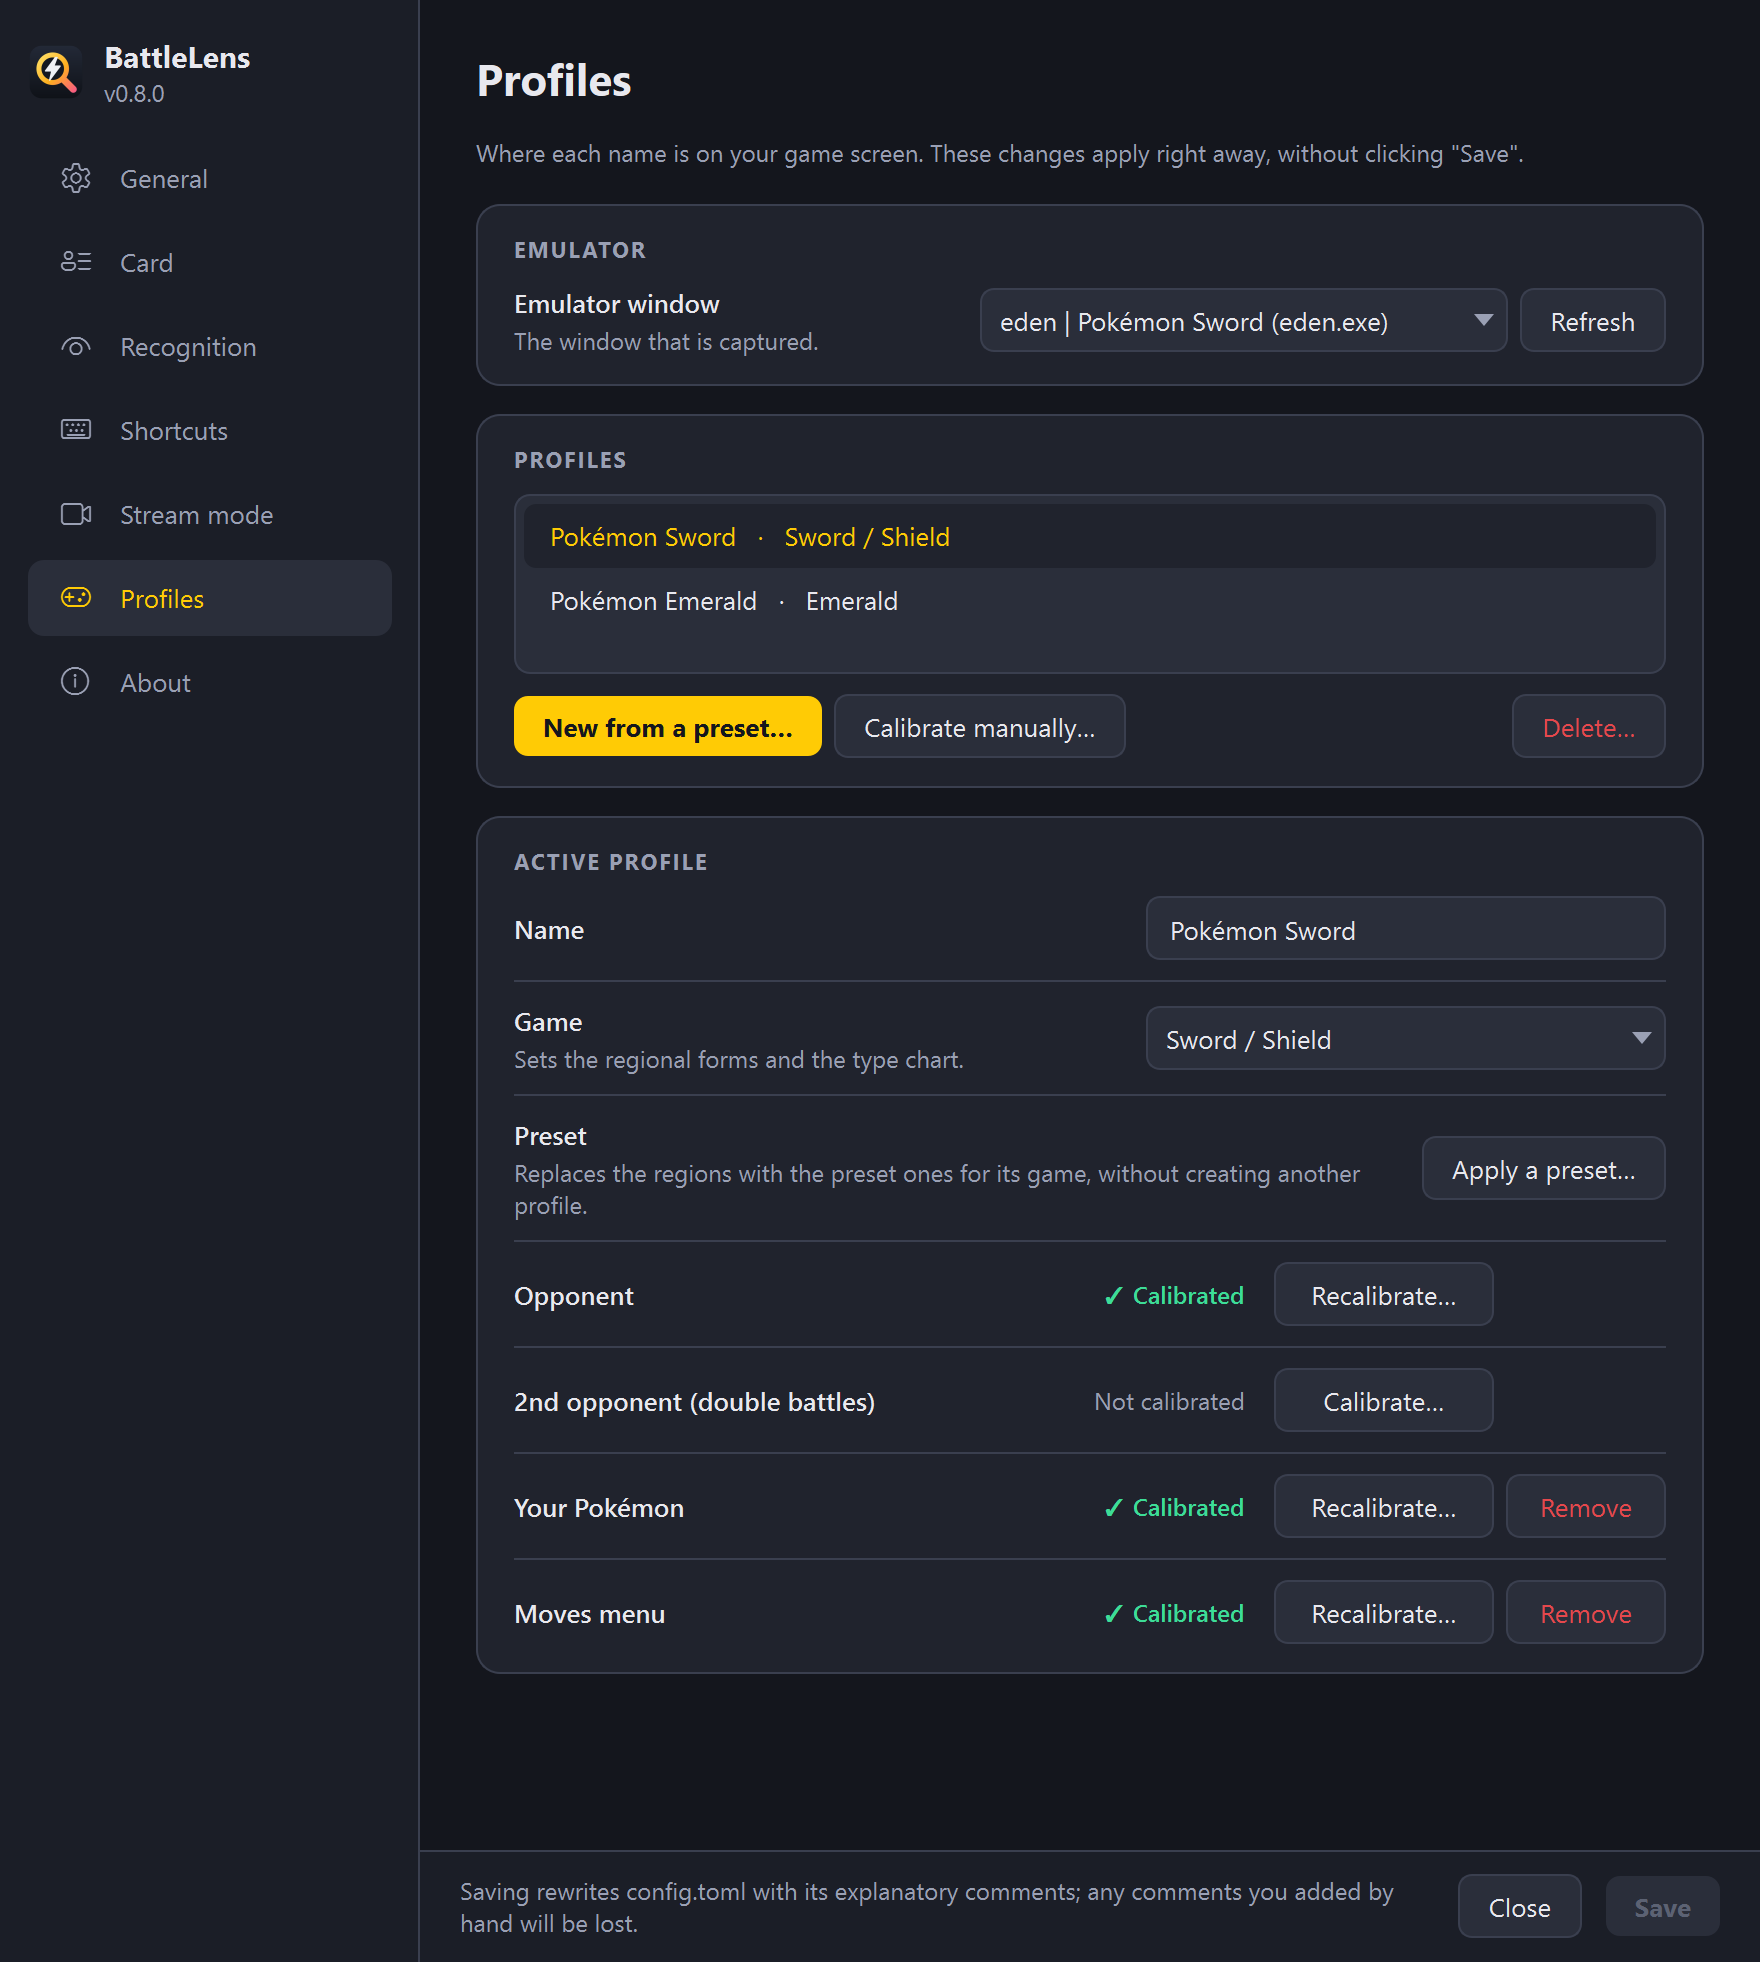
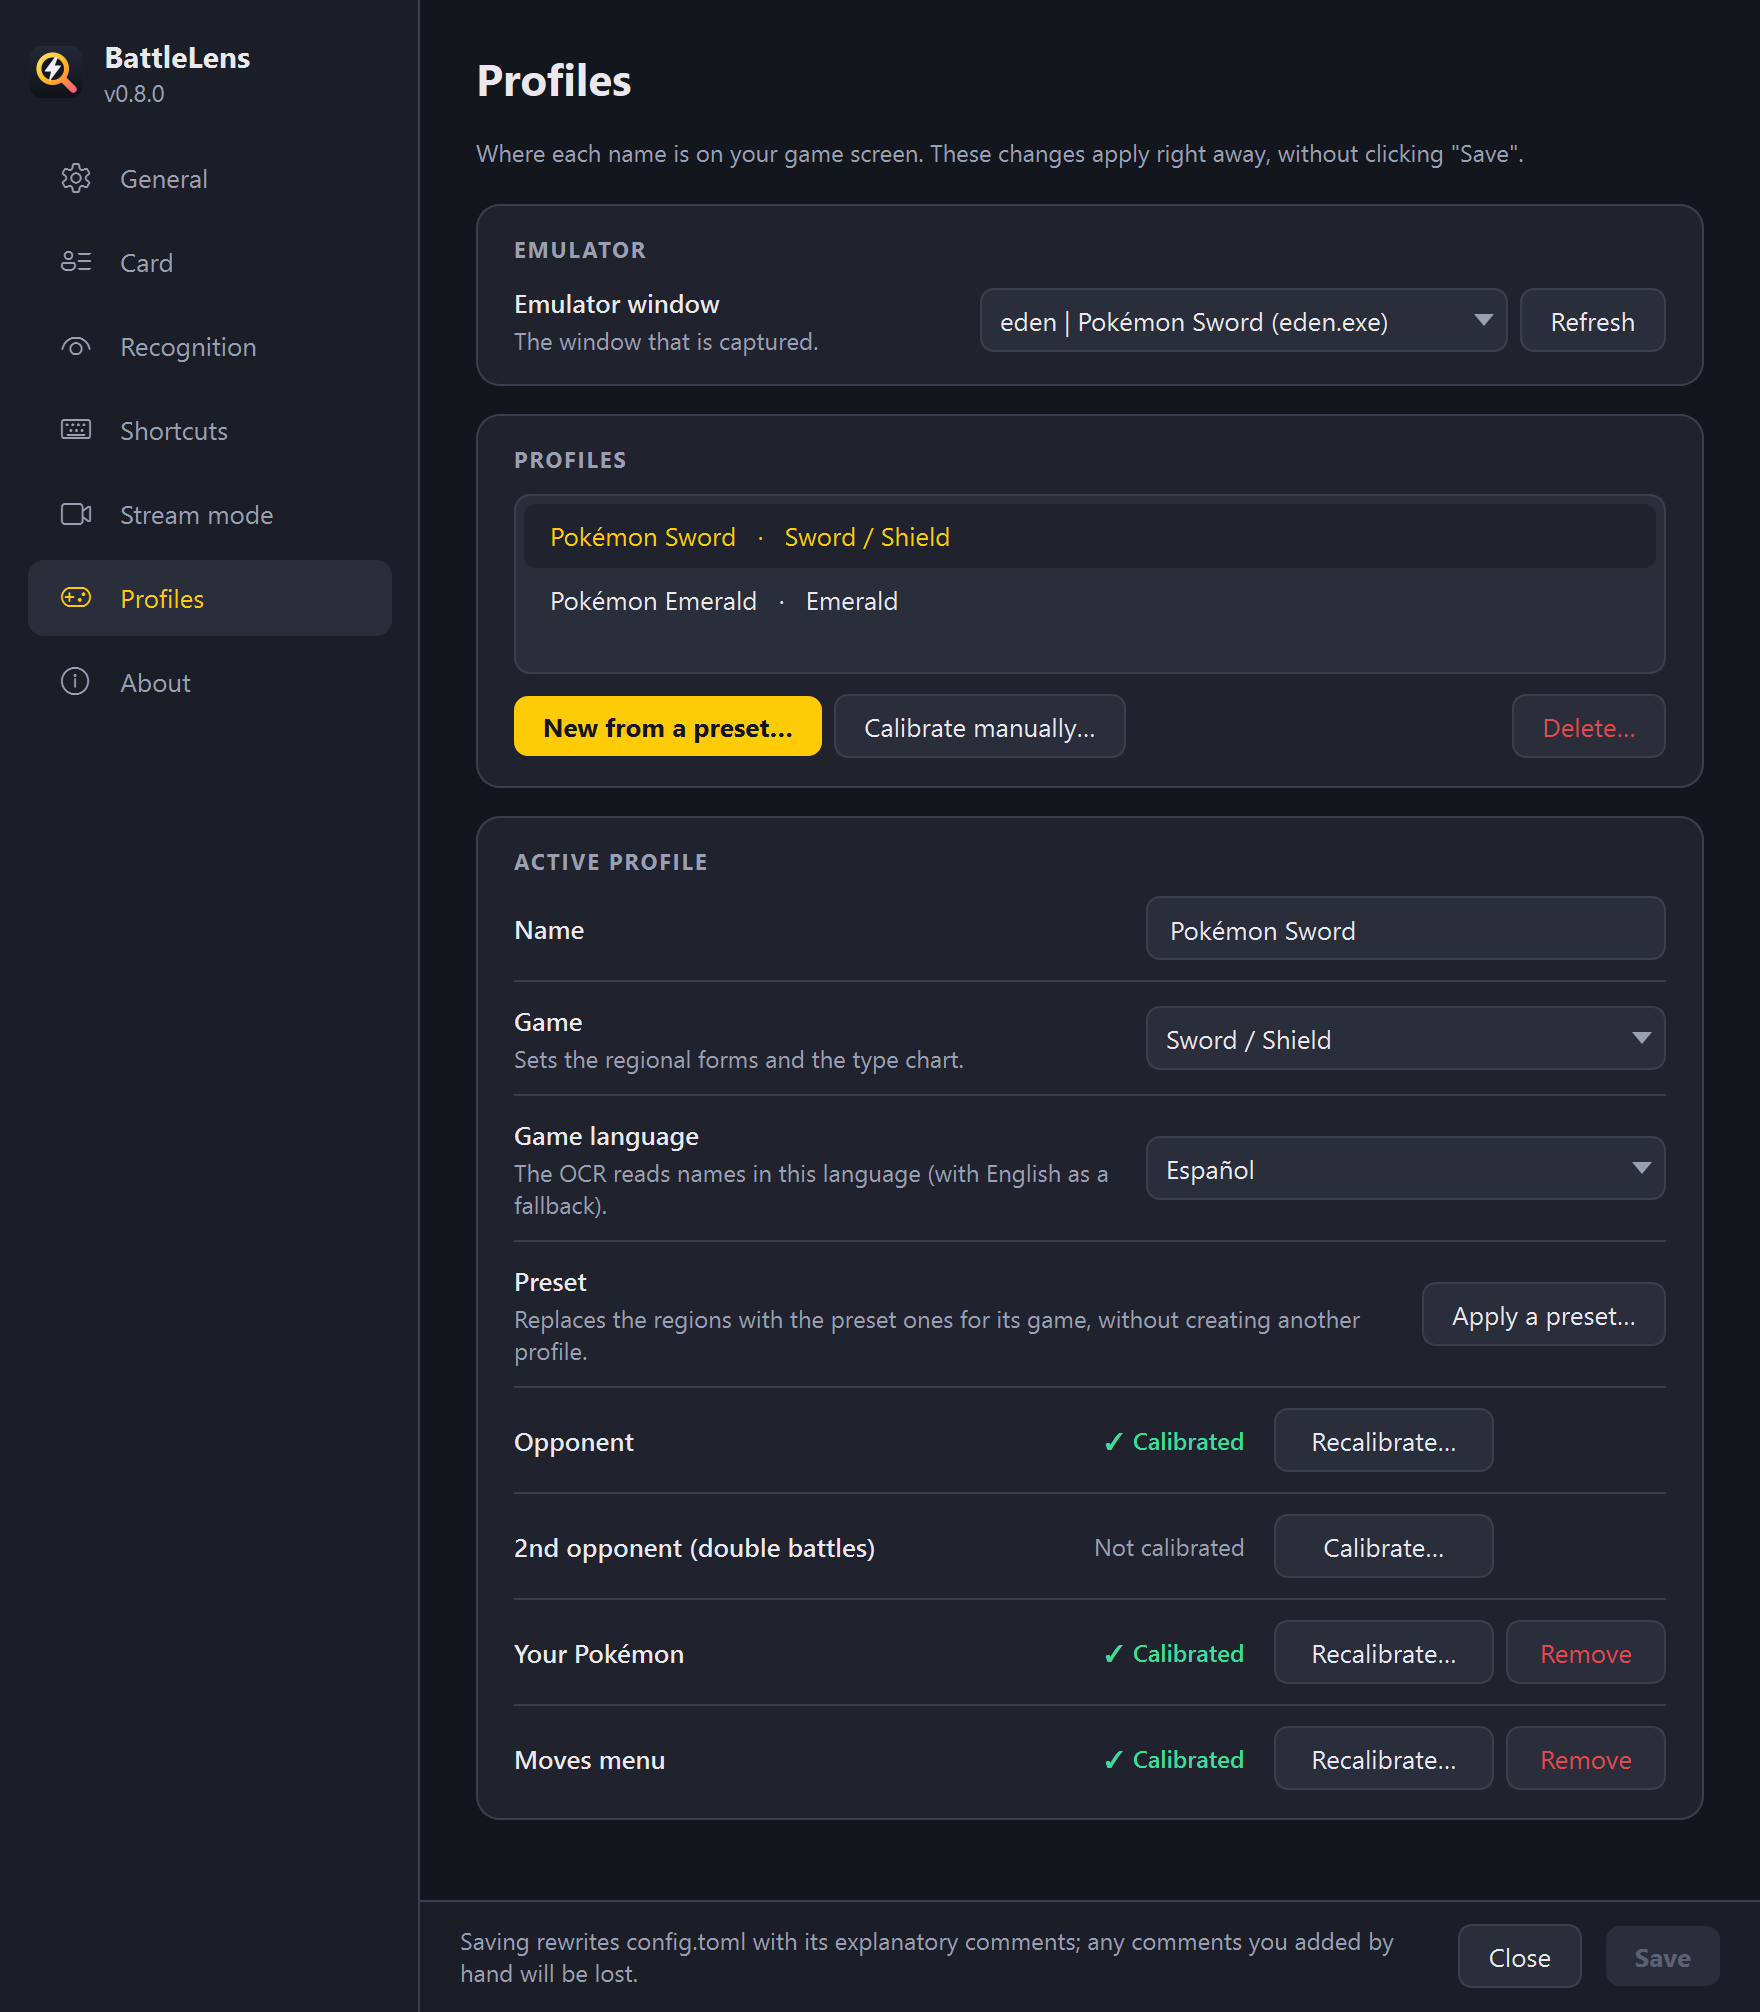
feat: idioma del juego por perfil para el OCR

diff --git a/site/guide.html b/site/guide.html
@@ -188,6 +188,7 @@
           </ul>
           <p><b>Juegos con preset:</b> Rojo/Azul/Amarillo, Oro/Plata/Cristal, Rubí/Zafiro/Esmeralda, Rojo Fuego/Verde Hoja, Diamante/Perla/Platino, HeartGold/SoulSilver, Negro/Blanco (y 2) y Espada/Escudo.</p>
           <p class="tip">El <b>juego</b> del perfil importa: decide las formas regionales (Alola, Galar, Hisui, Paldea), los tipos de esa generación y su tabla de eficacias. Puedes cambiarlo en <i>Ajustes › Perfiles → Juego</i>.</p>
+          <p class="tip">Pon también el <b>idioma del juego</b> en <i>Ajustes › Perfiles → Idioma del juego</i>: el OCR lee los nombres en ese idioma, con inglés de respaldo, y los nombres de otros idiomas cuentan menos al emparejar. Si a Windows le falta el OCR de ese idioma, la app ofrece instalarlo.</p>
           <p class="tip">Un perfil creado con preset recuerda dónde estaba la imagen del juego, así que puedes jugar a <b>pantalla completa</b>, maximizado o en ventana: las regiones siguen a la imagen. Los perfiles creados antes de la versión 0.4 no lo saben; si cambias el tamaño de la ventana, usa <b>Aplicar un preset…</b> en ese perfil (ver <a href="#modificar-perfil">Modificar un perfil</a>).</p>
         </section>
 
@@ -272,7 +273,7 @@
           <h2>Tu Pokémon, tus movimientos y dobles</h2>
           <p>Además del rival, cada perfil puede leer tres cosas más. Configúralas en <i>Ajustes › Perfiles</i> (o bandeja → <i>Perfil activo → Gestionar perfiles…</i>), en la tarjeta <b>Perfil activo</b>:</p>
           <figure class="shot">
-            <img src="assets/guide/es/settings-profiles.png" width="880" height="981" loading="lazy" alt="Ajustes, sección Perfiles, con las regiones del perfil activo">
+            <img src="assets/guide/es/settings-profiles.png" width="880" height="1038" loading="lazy" alt="Ajustes, sección Perfiles, con las regiones del perfil activo">
           </figure>
           <dl class="defs">
             <dt>Tu Pokémon</dt><dd>Con su nombre calibrado, la ficha muestra <b>«Contra tu X»</b>: lo que le hacen tus tipos, lo que te hacen los suyos y un veredicto (<b>Ventaja / Neutral / Desventaja</b>). Si tu Pokémon tiene mote, no se puede reconocer.</dd>
@@ -628,6 +629,7 @@
           </ul>
           <p><b>Games with a preset:</b> Red/Blue/Yellow, Gold/Silver/Crystal, Ruby/Sapphire/Emerald, FireRed/LeafGreen, Diamond/Pearl/Platinum, HeartGold/SoulSilver, Black/White (and 2) and Sword/Shield.</p>
           <p class="tip">The profile's <b>game</b> matters: it decides regional forms (Alola, Galar, Hisui, Paldea), that generation's types and its type chart. You can change it in <i>Settings › Profiles → Game</i>.</p>
+          <p class="tip">Also set the <b>game language</b> in <i>Settings › Profiles → Game language</i>: the OCR reads names in that language, with English as a fallback, and names in other languages count less when matching. If Windows is missing the OCR for that language, the app offers to install it.</p>
           <p class="tip">A profile created from a preset remembers where the game image was, so you can play <b>fullscreen</b>, maximized or windowed: the regions follow the image. Profiles created before version 0.4 don't know this; if you change the window size, use <b>Apply a preset…</b> on that profile (see <a href="#edit-profile">Edit a profile</a>).</p>
         </section>
 
@@ -712,7 +714,7 @@
           <h2>Your Pokémon, your moves and doubles</h2>
           <p>Besides the opponent, each profile can read three more things. Set them up in <i>Settings › Profiles</i> (or tray → <i>Active profile → Manage profiles…</i>), in the <b>Active profile</b> panel:</p>
           <figure class="shot">
-            <img src="assets/guide/en/settings-profiles.png" width="880" height="981" loading="lazy" alt="Settings, Profiles section, with the active profile's regions">
+            <img src="assets/guide/en/settings-profiles.png" width="880" height="1006" loading="lazy" alt="Settings, Profiles section, with the active profile's regions">
           </figure>
           <dl class="defs">
             <dt>Your Pokémon</dt><dd>With its name calibrated, the card shows <b>"Against your X"</b>: what your types do to it, what its types do to you and a verdict (<b>Advantage / Neutral / Disadvantage</b>). A nicknamed Pokémon can't be recognized.</dd>

diff --git a/src/battlelens/app.py b/src/battlelens/app.py
@@ -292,8 +292,9 @@ class Controller(QObject):
 
     # ---- acciones ----------------------------------------------------------
 
-    def install_ocr(self) -> None:
-        tag = proposed_ocr_tag(ui_language_tag())
+    def install_ocr(self, language: str | None = None) -> None:
+        """OCR de `language` (idioma del juego de un perfil) o, sin él, el del idioma de Windows."""
+        tag = proposed_ocr_tag(language or ui_language_tag())
         answer = QMessageBox.question(
             None,
             _("Instalar OCR de Windows"),
@@ -376,6 +377,7 @@ class Controller(QObject):
             w.window_selected.connect(self.select_window)
             w.profile_selected.connect(self.select_profile)
             w.profile_game_selected.connect(self.set_profile_game)
+            w.profile_language_selected.connect(self.set_profile_language)
             w.preset_requested.connect(self.new_profile_from_preset)
             w.calibrate_requested.connect(self.calibrate_new)
             w.region_requested.connect(self.calibrate_region)
@@ -1042,6 +1044,23 @@ class Controller(QObject):
         label = game.name(self.config.language) if game else _("sin especificar")
         self._refresh_ui()
         self.tray.notify(_("Juego de «{name}»: {game}.", name=profile.name, game=label))
+
+    def set_profile_language(self, language: str) -> None:
+        """Idioma del juego del perfil activo: el OCR lee en él, con inglés de respaldo."""
+        profile = self.profiles.active
+        if profile is None:
+            return
+        languages = (language,) if language == "en" else (language, "en")
+        self.profiles.save(replace(profile, ocr_languages=languages), activate=True)
+        self._refresh_ui()
+        try:
+            installed = any(tag.split("-")[0].lower() == language for tag in available_languages())
+        except Exception:  # noqa: BLE001 - sin WinRT (tests, otros sistemas): no se avisa
+            installed = True
+        if installed:
+            self.tray.notify(_("Idioma del juego de «{name}»: {language}.", name=profile.name, language=language))
+        else:
+            self.install_ocr(language)  # pregunta antes de instalar
 
     def _set_target(self, info: windows.WindowInfo | None) -> None:
         self.target = info

diff --git a/src/battlelens/ui/settings.py b/src/battlelens/ui/settings.py
@@ -231,6 +231,7 @@ class SettingsWindow(QWidget):
     window_selected = pyqtSignal(object)  # WindowInfo
     profile_selected = pyqtSignal(str)
     profile_game_selected = pyqtSignal(object)  # id de juego o None
+    profile_language_selected = pyqtSignal(str)  # idioma del juego del perfil activo (OCR)
     preset_requested = pyqtSignal()
     calibrate_requested = pyqtSignal()
     region_requested = pyqtSignal(str)
@@ -607,6 +608,14 @@ class SettingsWindow(QWidget):
         self.name_edit.editingFinished.connect(lambda: self.rename_requested.emit(self.name_edit.text()))
         self.active_card.add_row(_("Nombre"), self.name_edit)
         self.active_card.add_row(_("Juego"), self.game_combo, _("Decide las formas regionales y la tabla de tipos."))
+        self.game_language_combo = QComboBox()
+        self.game_language_combo.setMinimumWidth(260)
+        for code, label in LANGUAGE_LABELS.items():
+            self.game_language_combo.addItem(label, code)
+        self.game_language_combo.activated.connect(
+            lambda i: self.profile_language_selected.emit(self.game_language_combo.itemData(i)))
+        self.active_card.add_row(_("Idioma del juego"), self.game_language_combo,
+                                 _("El OCR lee los nombres en este idioma (y en inglés, de respaldo)."))
         self.apply_preset_button = _button(_("Aplicar un preset…"))
         self.apply_preset_button.clicked.connect(self.apply_preset_requested)
         self.active_card.add_row(_("Preset"), self.apply_preset_button,
@@ -908,6 +917,8 @@ class SettingsWindow(QWidget):
         for game_id, label in [(None, _("Sin especificar")), *self._get_games()]:
             self.game_combo.addItem(label, game_id)
         self.game_combo.setCurrentIndex(max(self.game_combo.findData(active.game), 0))
+        first = active.ocr_languages[0].split("-")[0].lower() if active.ocr_languages else "es"
+        self.game_language_combo.setCurrentIndex(max(self.game_language_combo.findData(first), 0))
         regions = {"rival": active.region, "rival2": active.rival2_region, "own": active.own_region,
                    "moves": active.moves_region}
         for role, (status, calibrate, remove) in self.region_rows.items():

diff --git a/tests/test_app.py b/tests/test_app.py
@@ -660,7 +660,7 @@ def test_ajustes_guardan_y_aplican(qapp, controller, tmp_path):
     window.hide()
 
 
-def test_perfil_desde_ajustes(qapp, controller):
+def test_perfil_desde_ajustes(qapp, controller, monkeypatch):
     from battlelens.core.profiles import Profile, Region
 
     controller.tray.notify = lambda msg, warning=False: None
@@ -675,6 +675,16 @@ def test_perfil_desde_ajustes(qapp, controller):
     assert controller.profiles.active_id == second.id
     controller.set_profile_game("emerald")
     assert window.game_combo.currentData() == "emerald"
+    from battlelens import app as app_module
+
+    installs = []
+    controller.install_ocr = installs.append
+    monkeypatch.setattr(app_module, "available_languages", lambda: ["es-ES", "en-US"])
+    controller.set_profile_language("fr")
+    assert controller.profiles.active.ocr_languages == ("fr", "en") and installs == ["fr"]  # ofrece instalarlo
+    assert window.game_language_combo.currentData() == "fr"
+    controller.set_profile_language("en")
+    assert controller.profiles.active.ocr_languages == ("en",)
     window.hide()
 
 

diff --git a/src/battlelens/i18n/en_menus.py b/src/battlelens/i18n/en_menus.py
@@ -209,6 +209,9 @@ EN: dict[str, str] = {
     'Aún no tienes perfiles. Entra en un combate y crea uno con un preset: BattleLens coloca las regiones por ti.': 'You have no profiles yet. Start a battle and create one from a preset: BattleLens places the regions for you.',
     'Juego': 'Game',
     'Decide las formas regionales y la tabla de tipos.': 'Sets the regional forms and the type chart.',
+    "Idioma del juego": "Game language",
+    "El OCR lee los nombres en este idioma (y en inglés, de respaldo).": "The OCR reads names in this language (with English as a fallback).",
+    "Idioma del juego de «{name}»: {language}.": "Game language of \"{name}\": {language}.",
     '✓ Calibrada': '✓ Calibrated',
     'Sin calibrar': 'Not calibrated',
     'Recalibrar…': 'Recalibrate…',

diff --git a/CHANGELOG.md b/CHANGELOG.md
@@ -8,6 +8,7 @@ Formato basado en [Keep a Changelog](https://keepachangelog.com/es-ES/1.1.0/); v
 
 ### Añadido
 - Tabla de naturalezas (`Ctrl+Alt+N` o bandeja → «Tabla de naturalezas»): las 25 naturalezas con la estadística que sube (fila) y la que baja (columna). Se mueve, reescala y cierra como la tabla de tipos, y recuerda su sitio y tamaño entre sesiones. En el modo panel aparece debajo o al lado de la tabla de tipos, según lo que deje las dos más grandes. En los juegos de Gen 1 y 2 el título avisa de que las naturalezas llegan en Gen 3.
+- Idioma del juego por perfil (Ajustes › Perfiles → «Idioma del juego»): el OCR lee los nombres en ese idioma, con inglés de respaldo. Si falta el OCR de Windows de ese idioma, la app ofrece instalarlo.
 
 ### Corregido
 - Una mala lectura del nombre ya no se empareja con el nombre del Pokémon en otro idioma (un Yamask salía como Nuzleaf por «Blanas», su nombre alemán): los nombres de idiomas distintos al del OCR del perfil puntúan menos y, si no hay nada claro, la ficha no sale en vez de salir equivocada.
@@ -16,6 +17,7 @@ Formato basado en [Keep a Changelog](https://keepachangelog.com/es-ES/1.1.0/); v
 
 **Added**
 - Nature chart (`Ctrl+Alt+N` or tray → "Nature chart"): the 25 natures with the stat each raises (row) and lowers (column). Moves, resizes and closes like the type chart, and remembers its place and size between sessions. In panel mode it sits below or beside the type chart, whichever keeps both larger. In Gen 1 and 2 games the title notes that natures arrive in Gen 3.
+- Game language per profile (Settings › Profiles → "Game language"): the OCR reads names in that language, with English as a fallback. If the Windows OCR for it is missing, the app offers to install it.
 
 **Fixed**
 - A bad read of the name no longer matches a Pokémon's name in another language (a Yamask showed up as Nuzleaf through "Blanas", its German name): names outside the profile's OCR languages score lower and, if nothing is clear, no card appears instead of a wrong one.
